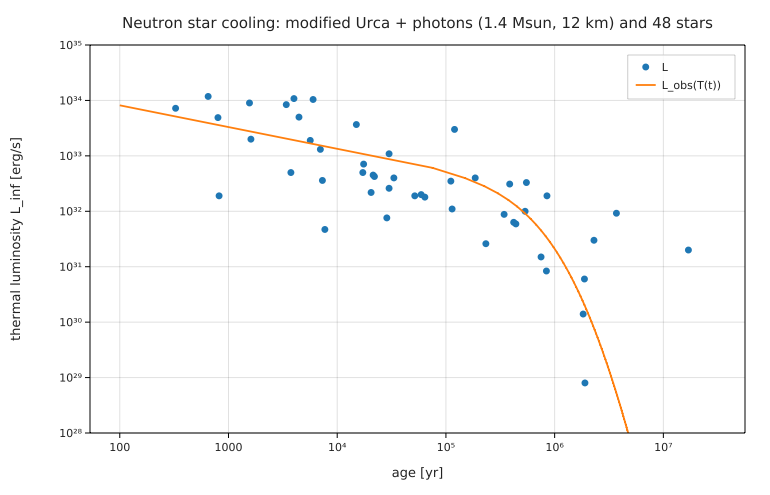
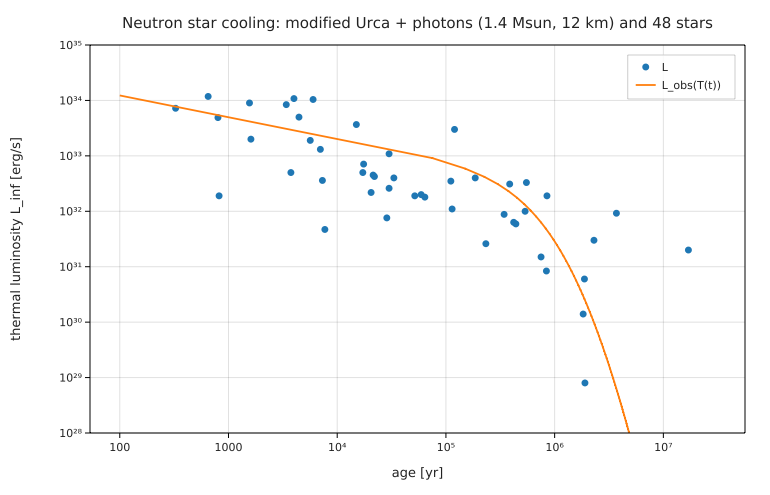
Red team 16 #10-#12: supernova error reading, fit error scaling documented, level_density comment, modified-Urca neutron branch
- research/supernova_hubble/README.md: fit scales errors by sqrt(chi2/dof) = 0.66 (chi2/dof = 697.3/1588);
  face-value errors give Omega_m = 0.350 +- 0.018 and Omega_Lambda > 0 at ~6.1 sigma (0.579/(0.063/0.663)), not 9.2.
- docs/reference.md (fit): standard errors are scaled by sqrt(chi2/dof), as SciPy's default.
- research/level_density: the stale comment about the (fixed, D326) fit error bug.
- research/neutron_star_cooling: emissivity 8.1e21 (n_p/n0)^(1/3) T9^8 with x_p = 0.05 (Yakovlev et al. 2001);
  expected_output.txt, README table and plot regenerated; research_c8 passes. (D336)

Claude-Session: https://claude.ai/code/session_01MrCxKdyUCXVdNVaCF3zPgq

diff --git a/research/neutron_star_cooling/README.md b/research/neutron_star_cooling/README.md
@@ -4,8 +4,9 @@
 its surface. In the simplest ("standard") picture:
 
 - heat capacity of the degenerate neutrons, C = (π²/2) N k_B (k_BT/E_F) = C₉ T₉;
-- neutrino luminosity from the modified Urca process n + N → p + N + e + ν̄ (and inverse), L_ν = N₉ T₉⁸
-  (emissivity 8.1 × 10²¹ (n/n₀)^(2/3) T₉⁸ erg cm⁻³ s⁻¹; Friman & Maxwell 1979, Yakovlev et al. 2001);
+- neutrino luminosity from the modified Urca process, neutron branch, n + n → n + p + e + ν̄ (and inverse), L_ν = N₉ T₉⁸
+  (emissivity 8.1 × 10²¹ (n_p/n₀)^(1/3) T₉⁸ erg cm⁻³ s⁻¹ with bare nucleon masses and α_nβ_n ≈ 1; Friman & Maxwell 1979,
+  Yakovlev et al. 2001, Phys. Rep. 354, 1), with the proton density from a proton fraction x_p = 0.05;
 - photons through the heat-blanketing envelope, T_s = 0.87 × 10⁶ K g₁₄^(1/4) (T_b/10⁸ K)^0.55 (Gudmundsson, Pethick &
   Epstein 1983), L = 4πR²σT_s⁴, redshifted to L∞ = (1 − r_g/R) L for a distant observer;
 - C dT/dt = −(L_ν + L_γ). In the neutrino era this has the closed form T₉ = (C₉/(6N₉t))^(1/6).
@@ -28,25 +29,25 @@ model at its age. Run it from this folder with `fermium run ns_cooling.fm` (0.2 
 | quantity | Fermium | expected / published |
 |---|---|---|
 | C₉ (degenerate neutrons, 1.4 M☉, 12 km) | 1.31 × 10³⁹ erg/K | ~10³⁹ erg/K (the usual order of magnitude) |
-| N₉ (modified Urca) | 7.46 × 10⁴⁰ erg/s | ~10⁴⁰ erg/s |
-| T(100 yr), T(1000 yr) | 3.24 × 10⁸ K, 2.20 × 10⁸ K | closed form 3.12 × 10⁸, 2.13 × 10⁸ K (3.5 % apart: photons already carry some heat) |
-| photons overtake neutrinos | t = 6.2 × 10⁴ yr (T_core = 1.0 × 10⁸ K) | "after ~10⁵ yr" (textbook) |
-| L∞ at 10³, 10⁴, 10⁵, 10⁶ yr | 3.5 × 10³³, 1.5 × 10³³, 5.2 × 10³², 2.1 × 10³¹ erg/s | |
-| Cas A (326 yr) | model 5.3 × 10³³, observed 7.2 × 10³³ erg/s (5.6–9.3) | consistent |
-| 3C 58 / PSR J0205+6449 (820 yr) | model 3.8 × 10³³, observed **1.9 × 10³²** erg/s: 20 × colder | too cold for standard cooling (Slane, Helfand & Murray 2002) |
-| PSR B2334+61 (7700 yr) | observed 35 × below the model | also too cold |
-| Vela (22 kyr) | observed 0.40 × the model | |
-| all 48 | 34 within a factor 3 of their error range; median log₁₀(L_obs/L_model) = −0.19 | |
-| ordinary pulsars (22) | mean log₁₀ ratio −0.52 (colder than the model) | |
-| CCO-like (12), high-B (6) | +0.17, −0.01 | |
-| XINSs (8, mostly with characteristic ages) | +1.74 (much hotter) | spin-down ages overestimate the age, and field decay heats them |
-| stars with an independent age t* | 12 of 25 within a factor 3 | |
+| N₉ (modified Urca) | 2.44 × 10⁴⁰ erg/s | ~10⁴⁰ erg/s |
+| T(100 yr), T(1000 yr) | 3.91 × 10⁸ K, 2.65 × 10⁸ K | closed form 3.76 × 10⁸, 2.56 × 10⁸ K (3.7 % apart: photons already carry some heat) |
+| photons overtake neutrinos | t = 6.0 × 10⁴ yr (T_core = 1.3 × 10⁸ K) | "after ~10⁵ yr" (textbook) |
+| L∞ at 10³, 10⁴, 10⁵, 10⁶ yr | 5.3 × 10³³, 2.2 × 10³³, 7.7 × 10³², 2.9 × 10³¹ erg/s | |
+| Cas A (326 yr) | model 7.95 × 10³³, observed 7.2 × 10³³ erg/s (5.6–9.3) | consistent |
+| 3C 58 / PSR J0205+6449 (820 yr) | model 5.7 × 10³³, observed **1.9 × 10³²** erg/s: 30 × colder | too cold for standard cooling (Slane, Helfand & Murray 2002) |
+| PSR B2334+61 (7700 yr) | observed 52 × below the model | also too cold |
+| Vela (22 kyr) | observed 0.26 × the model | |
+| all 48 | 31 within a factor 3 of their error range; median log₁₀(L_obs/L_model) = −0.33 | |
+| ordinary pulsars (22) | mean log₁₀ ratio −0.69 (colder than the model) | |
+| CCO-like (12), high-B (6) | −0.01, −0.19 | |
+| XINSs (8, mostly with characteristic ages) | +1.62 (much hotter) | spin-down ages overestimate the age, and field decay heats them |
+| stars with an independent age t* | 11 of 25 within a factor 3 | |
 
 **Honest reading.** A one-zone model with textbook physics and no free parameter follows the observed luminosities over
-five decades of age: a factor ~1.5 in the median, and 34 of 48 stars within a factor 3. The famous outliers come out where
+five decades of age: a factor ~2 in the median (the model is brighter), and 31 of 48 stars within a factor 3. The famous outliers come out where
 they should: 3C 58 and B2334+61 are an order of magnitude too cold (enhanced cooling), and the Magnificent Seven are far too
 hot for their characteristic ages. What the model leaves out is large: nucleon superfluidity (which both suppresses the
-Urca processes and adds pair-breaking neutrinos), the effective masses, the real density profile (a mean density of
+Urca processes and adds pair-breaking neutrinos), the effective masses, the proton fraction (x_p = 0.05 is assumed; N₉ ∝ x_p^(1/3)), the modified Urca proton branch, the real density profile (a mean density of
 0.23 fm⁻³ is used everywhere), light-element envelopes (which make stars brighter at the same core temperature), and
 direct Urca in heavy stars. The comparison is with the data, not with Potekhin et al.'s theoretical curves.
 

diff --git a/research/supernova_hubble/README.md b/research/supernova_hubble/README.md
@@ -29,15 +29,19 @@ program runs in 10.5 s. Run it from this folder with `fermium run hubble.fm`.
 | Einstein–de Sitter (Ωm = 1, ΩΛ = 0) | Δχ² = **+661** | ruled out | |
 | empty universe (Milne) | Δχ² = +35.8 | | |
 | ΛCDM with curvature | Ωm = 0.299 ± 0.046, ΩΛ = 0.579 ± 0.063 (Ω_k = 0.12) | | |
-| ΩΛ > 0 | **9.2 σ** (diagonal errors) | | the 1998 discovery (Riess et al.; Perlmutter et al.), here with 1590 light curves |
+| ΩΛ > 0 | 9.2 standard errors as printed; **≈ 6.1σ** with the stated errors at face value (see below) | | the 1998 discovery (Riess et al.; Perlmutter et al.), here with 1590 light curves |
 
 The binned Hubble residuals (relative to an empty universe) rise to +0.10 mag at z ≈ 0.3 and fall back, the shape of flat
 ΛCDM; a matter-only universe predicts −0.15 mag at z ≈ 0.6 where the data show +0.06 mag.
 
-**Honest reading.** With only the diagonal errors, Ωm lands 0.9σ above the published value (0.350 vs 0.334), and its error
-is too small (0.012 vs 0.018) because the correlated systematics are not propagated; the full 1701 × 1701 covariance matrix
-(`Pantheon+SH0ES_STAT+SYS.cov` in the release) is not used. The highest-redshift bin (z ≈ 1.4, 0.007 ± 0.062 mag) sits
-above flat ΛCDM (−0.109) by 1.9σ.
+**Honest reading.** `fit` reports standard errors scaled by √(χ²/dof), as SciPy's `curve_fit` does by default
+(`absolute_sigma=False`). Here χ²/dof = 697.3/1588 = 0.44, so every printed error is 0.66 times what the stated
+(diagonal) errors give at face value: Ωm = 0.350 ± 0.012 as printed is **0.350 ± 0.018** unscaled, and ΩΛ in the curved fit
+is 0.579 ± 0.095 unscaled, so ΩΛ > 0 at **≈ 6.1σ**, not the 9.2 printed. The small χ²/dof itself says the diagonal errors
+are too large: they include systematics that the full 1701 × 1701 covariance matrix (`Pantheon+SH0ES_STAT+SYS.cov` in
+the release, not used here) treats as correlated. Ωm lands 0.9σ (of the published error) above
+the published value (0.350 vs 0.334 ± 0.018). The highest-redshift bin (z ≈ 1.4, 0.007 ± 0.062 mag) sits above flat
+ΛCDM (−0.109) by 1.9σ.
 
 ![binned Hubble residuals](hubble_residuals.png)
 

diff --git a/docs/reference.md b/docs/reference.md
@@ -1005,7 +1005,7 @@ plot data.T vs data.L to "pendulum.png"
 - **`fit y = model to data`:** nonlinear least squares. The left side can also be a formula of a column, for a linearised fit: `fit T^2 = k L to data`.
   - **Parameters:** the names that are not columns, constants or functions. If there are none, the names that already have values are fitted, starting from those values.
   - **Starting guesses:** set them with `with a = 2 m`.
-  - **Report:** each parameter with units, a standard error, and the rms residual. Afterwards the parameters are ordinary variables (in a program that uses `±`, uncertain values with the fit's covariance, §21), and `err(g)` is g's standard error (same units; NaN if it couldn't be estimated), so it can be carried into later results: `print err(g)/g`. Values are shown to the second digit of their standard error.
+  - **Report:** each parameter with units, a standard error, and the rms residual. The standard errors come from the covariance (JᵀJ)⁻¹ scaled by χ²/dof (the residual sum of squares over the degrees of freedom), so they are scaled by √(χ²/dof), as SciPy's `curve_fit` does by default (`absolute_sigma=False`): in a χ² fit (both sides divided by the errors) whose χ²/dof is far from 1, the errors taken at face value are the printed ones divided by √(χ²/dof). Afterwards the parameters are ordinary variables (in a program that uses `±`, uncertain values with the fit's covariance, §21), and `err(g)` is g's standard error (same units; NaN if it couldn't be estimated), so it can be carried into later results: `print err(g)/g`. Values are shown to the second digit of their standard error.
 - **Plots:** each form saves a PNG with labelled axes (units included) and prints where it was saved, as a full path (`plot saved to /Users/ada/lab/pendulum.png`), so the file can be found whatever folder the program was run from. The file name is relative to the program's folder.
   - `plot ys vs xs` (lists). Columns from `load` are drawn as markers, everything else as lines. Uncertain values (§21) are drawn with error bars.
   - `plot x vs t` (an ODE solution)

diff --git a/research/neutron_star_cooling/SOURCE.md b/research/neutron_star_cooling/SOURCE.md
@@ -7,7 +7,7 @@
 - **Citation:** A. Y. Potekhin, D. A. Zyuzin, D. G. Yakovlev, M. V. Beznogov and Yu. A. Shibanov, "Thermal luminosities of
   cooling neutron stars", MNRAS **496**, 5052 (2020); each entry's own references are linked on the page.
 - **License:** a public research compilation; cite the MNRAS paper (and the original measurements).
-- **Physics inputs (typed from the papers, not downloaded):** modified-Urca emissivity 8.1 × 10²¹ (n/n₀)^(2/3) T₉⁸ erg cm⁻³ s⁻¹
-  (B. L. Friman & O. V. Maxwell, ApJ **232**, 541 (1979), in the form of D. G. Yakovlev et al., Phys. Rep. **354**, 1 (2001));
+- **Physics inputs (typed from the papers, not downloaded):** modified-Urca emissivity (neutron branch) 8.1 × 10²¹ (n_p/n₀)^(1/3) T₉⁸ erg cm⁻³ s⁻¹, with a proton fraction x_p = 0.05 assumed
+  (B. L. Friman & O. V. Maxwell, ApJ **232**, 541 (1979), in the form of D. G. Yakovlev et al., Phys. Rep. **354**, 1 (2001), bare masses, α_nβ_n ≈ 1);
   envelope relation T_s = 0.87 × 10⁶ K g₁₄^(1/4) (T_b/10⁸ K)^0.55 (E. H. Gudmundsson, C. J. Pethick & R. I. Epstein,
   ApJ **272**, 286 (1983)); 3C 58 too cold for standard cooling (P. O. Slane, D. J. Helfand & S. S. Murray, ApJ **571**, L45 (2002)).

diff --git a/DECISIONS.md b/DECISIONS.md
@@ -1971,3 +1971,13 @@ wrong here); rust/c-cases/c2/events_uncertain.json records the new text (that re
 values" error.
 - **Alternatives:** sensitivities through the event (a saltation matrix at each event: exact for smooth crossings,
 more code; later if the Monte Carlo cost matters).
+
+## D336. Research corrections: fit's error scaling stated, the modified-Urca neutron branch (red team 16 #10–#12)
+- **What:** supernova_hubble's README explains that `fit` scales standard errors by √(χ²/dof) (SciPy's default) and
+gives the face-value errors (Ωm ± 0.018, ΩΛ > 0 at ≈ 6.1σ); docs/reference.md states the scaling. neutron_star_cooling
+now uses the neutron-branch emissivity 8.1×10²¹ (n_p/n₀)^(1/3) T₉⁸ (Yakovlev et al. 2001) with an assumed proton
+fraction x_p = 0.05, bare masses and α_nβ_n ≈ 1; expected_output.txt, the README table and the plot are regenerated.
+- **Why:** the reviewer's findings: the 9.2σ claim used errors shrunk by χ²/dof = 0.44, and the (n/n₀)^(2/3) form
+isn't the cited one.
+- **Alternatives:** a `fit` option for absolute errors (`absolute_sigma`); later if asked. Keeping (n/n₀)^(2/3) with
+a different citation (the neutron-branch form is the standard one).

diff --git a/research/level_density/README.md b/research/level_density/README.md
@@ -43,7 +43,8 @@ simplest form, so its individual a values are not the RIPL-3 recommended ones.
   SI value is tiny, `k = 8 MeV` (1.3 × 10⁻¹² J) in `fit a = A / k`, reports `k = 1.273×10⁻¹² J (standard error
   1.7×10⁻¹⁰ J)`, 100 times the value; the same fit with a plain parameter (`fit a * 1 MeV = A / k`) gives the right
   7.948 ± 0.089. The fitted value is right; only the error (and so `err(k)`) is wrong. The report is also in J, not in the MeV
-  of the starting value. Logged under "Bugs first" in BACKLOG.md with a five-line reproduction.
+  of the starting value. **Fixed** since (DECISIONS D326: the covariance steps scale with the parameter); the program
+  keeps the plain-number form it was written with.
 - `σ²(U, a, A) = …` can't be a function name (the superscript is read as a power); written `σsq`.
 - A spin `J` collided with the unit joule in `2J` (clear error; renamed `spin`).
 - `(2J + 1) / (…) exp(…)` was refused as ambiguous (division then implicit multiplication), with a hint giving both

diff --git a/CHANGES_2.5.md b/CHANGES_2.5.md
@@ -278,3 +278,8 @@ the frictions are collected in BACKLOG.md ("Research track (C8) frictions").
 - A solve whose `when` reset or condition reads an uncertain value (`when y = 0 m: y' = -k_e y'`, `k_e = 0.9 ± 0.01`)
   gets its uncertainty from Monte Carlo, as documented (it was refused); the warning names the moving event time as
   the reason.
+- Research track corrections: supernova_hubble's README reads the Ωm and ΩΛ errors correctly (`fit` scales them by
+  √(χ²/dof) = 0.66 here: Ωm = 0.350 ± 0.018 and ΩΛ > 0 at ≈ 6.1σ with the stated errors at face value, not 9.2σ);
+  docs/reference.md says how `fit` scales its standard errors; neutron_star_cooling uses the modified-Urca neutron
+  branch's (n_p/n₀)^(1/3) with a proton fraction of 0.05 (was (n/n₀)^(2/3)), N₉ = 2.44 × 10⁴⁰ erg/s, 31 of 48 stars
+  within a factor 3 (was 34); level_density's stale comment on the fixed fit bug is gone.
